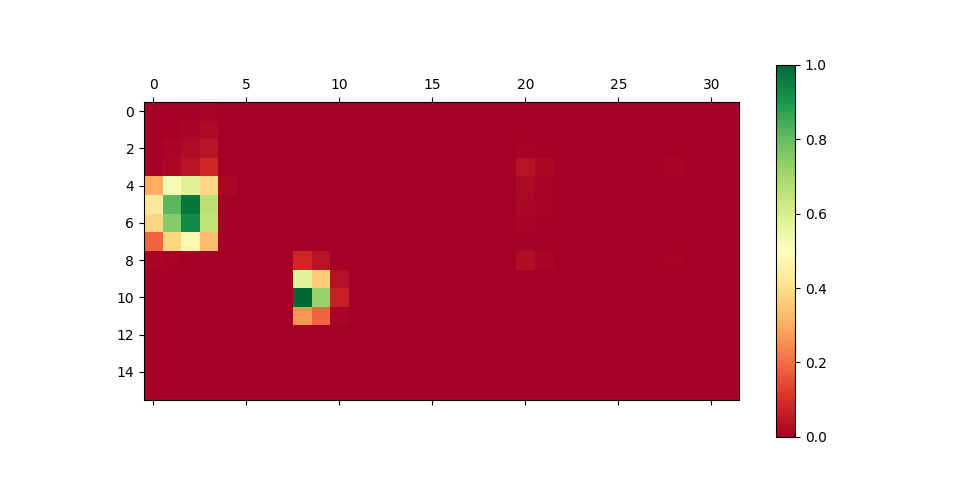
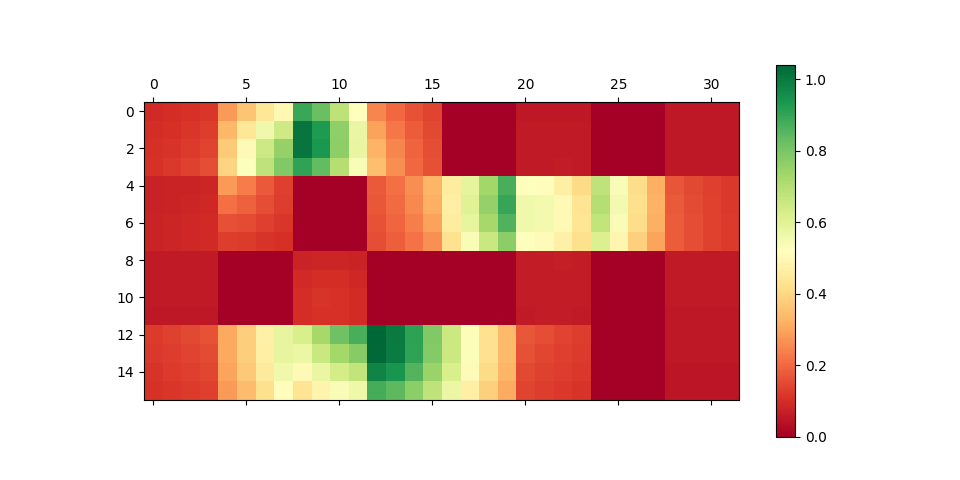
localization is working

diff --git a/scripts/hist_localization.py b/scripts/hist_localization.py
@@ -193,7 +193,9 @@ class HistMap:
     def normalize_probmap(self):
         """ normalize the probability map """
         probmax, probmin = self.PROB_MAP.max(), self.PROB_MAP.min()
-        self.PROB_MAP[self.PROB_MAP > 0] = (self.PROB_MAP - probmin) / (probmax - probmin)
+        mask = (self.PROB_MAP != 0)
+        np.putmask(self.PROB_MAP, mask, (self.PROB_MAP - probmin) / (probmax - probmin) + 0.05)
+        # self.PROB_MAP[self.PROB_MAP != 0] = (self.PROB_MAP - probmin) / (probmax - probmin)
     
     
     def init_probabilities(self):
